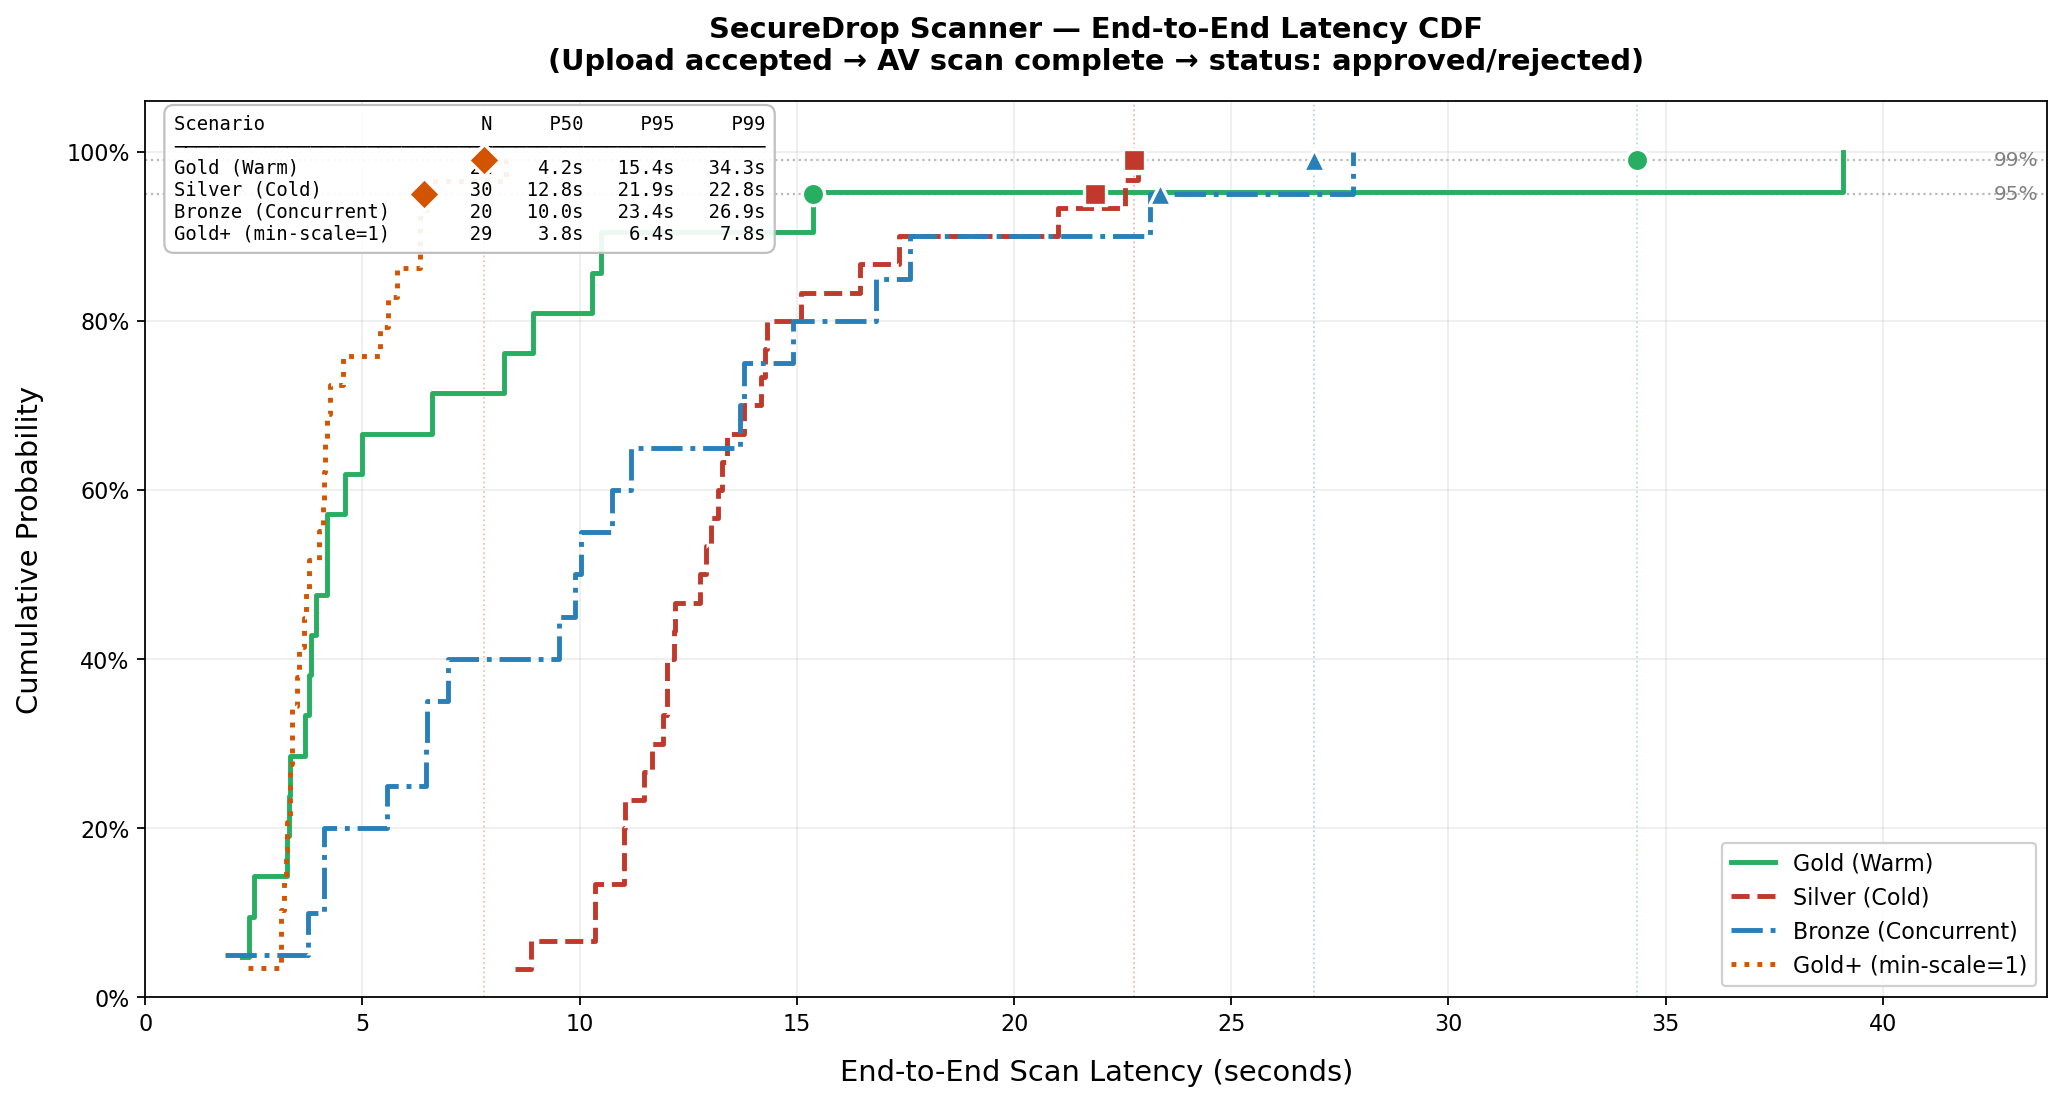
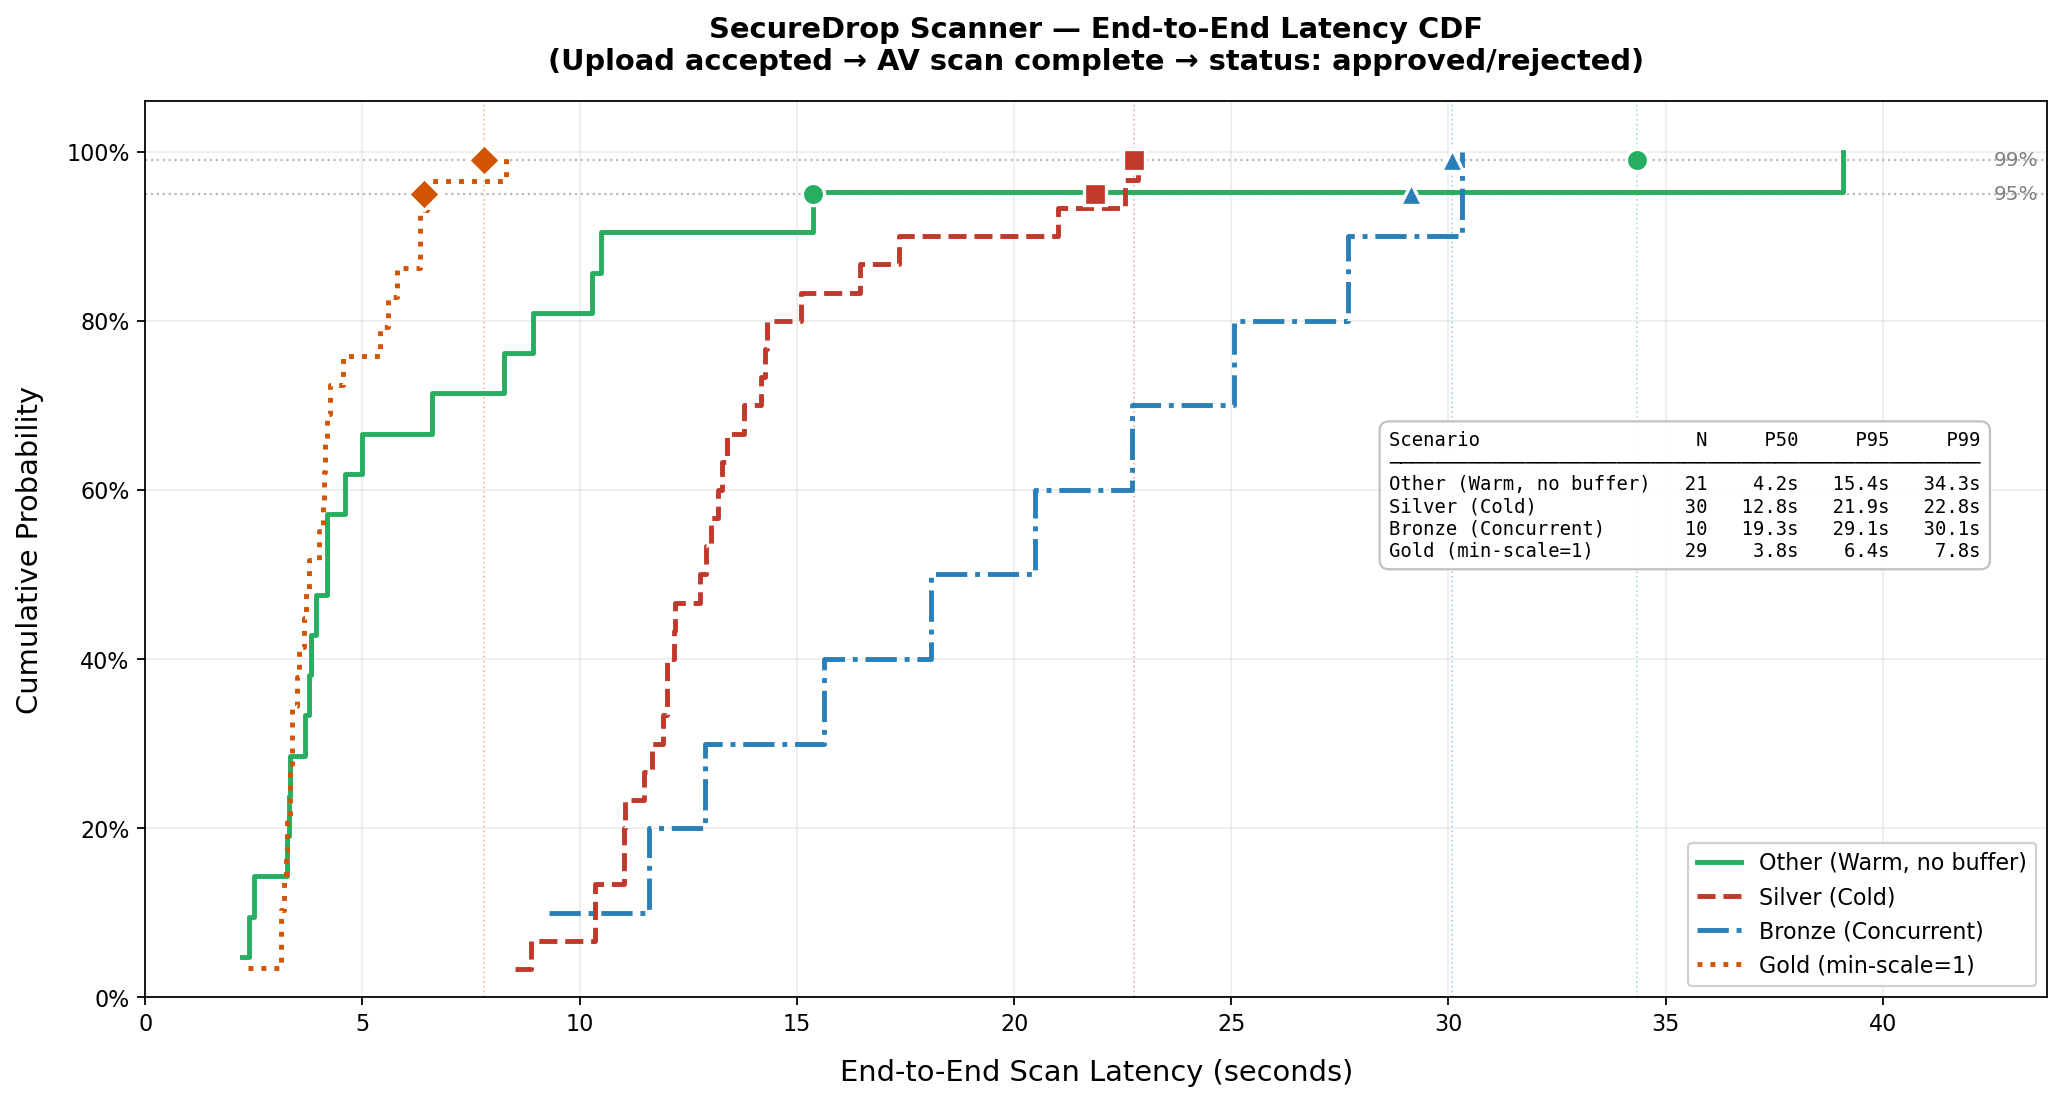
updated sla

diff --git a/sla-measurements/scripts/analyze_sla.py b/sla-measurements/scripts/analyze_sla.py
@@ -7,10 +7,10 @@ Usage:
 
 Example:
   python3 analyze_sla.py \
-    "Gold (Warm)":results/warm_final.csv \
+    "Gold (min-scale=1)":results/minscale1_clean.csv \
     "Silver (Cold)":results/cold_clean.csv \
     "Bronze (Concurrent)":results/concurrent_final.csv \
-    "Gold+ (min-scale=1)":results/minscale1_clean.csv \
+    "Other (Warm, no buffer)":results/warm_final.csv \
     --output results/sla_cdf_plot.png
 """
 
@@ -151,7 +151,7 @@ def plot_cdf(scenarios, output='sla_cdf_plot.png'):
         ax.text(x_max * 1.115, prob, lbl,
                 fontsize=9, color='gray', va='center', ha='right')
 
-    # ── Stats box (top-left) ─────────────────────────────────────────────────
+    # ── Stats box (center-right, clear of the Bronze rising edge) ───────────
     header = f"{'Scenario':<24} {'N':>3}  {'P50':>6}  {'P95':>6}  {'P99':>6}"
     sep    = '─' * len(header)
     rows   = [header, sep]
@@ -159,10 +159,11 @@ def plot_cdf(scenarios, output='sla_cdf_plot.png'):
         short = label[:23]
         rows.append(f"{short:<24} {n:>3}  {p50:>5.1f}s  {p95:>5.1f}s  {p99:>5.1f}s")
 
-    ax.text(0.015, 0.985, '\n'.join(rows),
+    ax.text(0.965, 0.56, '\n'.join(rows),
             transform=ax.transAxes,
             fontsize=8.5,
-            verticalalignment='top',
+            verticalalignment='center',
+            horizontalalignment='right',
             fontfamily='monospace',
             bbox=dict(boxstyle='round,pad=0.5',
                       facecolor='white', alpha=0.92,

diff --git a/sla-measurements/README.md b/sla-measurements/README.md
@@ -38,7 +38,7 @@ sla measurements/
 ├── results/
 │   ├── warm_final.csv                 # Scenario A results (21 samples)
 │   ├── cold_clean.csv                 # Scenario B results (30 samples)
-│   ├── concurrent_final.csv           # Scenario C results (20 samples)
+│   ├── concurrent_final.csv           # Scenario C results (10 samples)
 │   ├── minscale1_clean.csv            # Scenario D results (29 samples)
 │   └── sla_cdf_plot.png               # CDF plot (all 4 scenarios)
 ```
@@ -112,10 +112,13 @@ done
 
 ---
 
-## Scenario A — Warm execution (Gold SLA)
+## Scenario A — Warm execution, scale-to-zero (unstable / "Other")
 
-The scanner pod is already running before each upload.
-Measures steady-state latency without cold-start overhead.
+The scanner pod *may* already be running before each upload, or may have
+just scaled to zero — this scenario does **not** force a known pod state,
+it simply re-uploads at short intervals while `min-scale=0`. As shown
+below, this produces unpredictable, bimodal latency and is **not** assigned
+an SLA class.
 
 ```bash
 chmod +x scripts/measure_warm_sla_unique.sh
@@ -200,9 +203,17 @@ OUTPUT=results/concurrent_final.csv \
 > so the Knative scanner receives requests one at a time. The `containerConcurrency=5`
 > setting is never utilized — Node-RED is the bottleneck, not the scanner.
 
+> **Note on sample count:** Out of 30 upload attempts (3 batches × 10
+> concurrent uploads), only 10 were successfully matched to a status-change
+> event during log polling — the rest were dropped by a race condition in
+> the polling script when multiple status updates land in the same log
+> window. `results/concurrent_final.csv` reflects only the 10 confirmed
+> samples. Treat Bronze SLA numbers as **provisional** until the polling
+> script is fixed and the test re-run with the full 30 samples.
+
 ---
 
-## Scenario D — Always-warm (min-scale=1 comparison)
+## Scenario D — Always-warm (min-scale=1 → Gold SLA)
 
 Tests the alternative autoscaling strategy where a minimum of 1 pod is
 always running (no scale-to-zero). Supports section 6.6 of the design document.
@@ -233,12 +244,16 @@ microk8s kubectl annotate ksvc securedrop-scanner -n default \
 
 ## CDF Analysis
 
+The label passed before each `:csvfile` on the command line is the literal
+string used in the plot legend/stats box — **it must match the SLA class
+table below**, not the order the scenarios were measured in.
+
 ```bash
 python3 scripts/analyze_sla.py \
-  "Gold (Warm)":results/warm_final.csv \
+  "Gold (min-scale=1)":results/minscale1_clean.csv \
   "Silver (Cold)":results/cold_clean.csv \
   "Bronze (Concurrent)":results/concurrent_final.csv \
-  "Gold+ (min-scale=1)":results/minscale1_clean.csv \
+  "Other (Warm, no buffer)":results/warm_final.csv \
   --output results/sla_cdf_plot.png
 ```
 
@@ -248,34 +263,42 @@ python3 scripts/analyze_sla.py \
 
 | Scenario | N | Mean | P50 | P95 | P99 | Max |
 |---|---|---|---|---|---|---|
-| Gold (Warm, scale-to-zero) | 21 | 7.1s | 4.2s | 15.4s | 34.3s | 39.1s |
+| Other (Warm, scale-to-zero, unstable) | 21 | 7.1s | 4.2s | 15.4s | 34.3s | 39.1s |
 | Silver (Cold start) | 30 | 13.5s | 12.8s | 21.9s | 22.8s | 22.8s |
-| Bronze (10× concurrent) | 20 | 10.9s | 10.0s | 23.4s | 26.9s | 27.8s |
-| Gold+ (min-scale=1) | 29 | 4.3s | 3.8s | 6.4s | 7.8s | 8.3s |
+| Bronze (10× concurrent)¹ | 10 | — | 19.3s | 29.1s | 30.1s | — |
+| Gold (min-scale=1) | 29 | 4.3s | 3.8s | 6.4s | 7.8s | 8.3s |
+
+¹ Provisional — see sample-count note in Scenario C above. Mean/Max not
+yet recomputed for the reduced N=10 set; re-run before final submission.
 
 ### SLA Class definitions
 
 | Class | Scenario | Condition | P99 target |
 |---|---|---|---|
-| **Gold+** | min-scale=1 (always warm) | ≥1 pod always running | ≤ 8s |
+| **Gold** | min-scale=1 (always warm) | ≥1 pod always running | ≤ 8s |
 | **Silver** | Cold start (scale-to-zero) | Pod starts from zero | ≤ 23s |
-| **Bronze** | 10× concurrent burst | 10 parallel uploads | ≤ 27s |
+| **Bronze** | 10× concurrent burst | 10 parallel uploads | ≤ 30.5s¹ |
+| **Other** (unclassified) | Warm, scale-to-zero, no buffer | min-scale=0, short interval between runs | not eligible — see Finding 1 |
+
+¹ Updated from ≤27s after the Bronze re-measurement; confirm once the
+full 30-sample run replaces the current N=10 provisional set.
 
 ### Key findings
 
-**1. scale-to-zero without min-scale=1 is unpredictable.**
-The "Gold (Warm)" scenario has P99=34s — worse than Cold (P99=23s).
+**1. scale-to-zero without min-scale=1 is unpredictable — not a Gold strategy.**
+The "Other (Warm)" scenario has P99=34.3s — worse than Cold (P99=22.8s).
 Its bimodal CDF reveals that scale-to-zero occasionally fires between
-sequential test runs, causing hidden cold starts. The high stdev (8.1s)
-confirms this instability.
+sequential test runs, causing hidden cold starts. The high stdev (~8s)
+confirms this instability. This scenario is deliberately excluded from
+the SLA class table.
 
-**2. min-scale=1 is the only reliable "Gold" strategy.**
+**2. min-scale=1 is the only reliable Gold strategy.**
 P99=7.8s with stdev=1.3s. Consistent, predictable, no cold-start variance.
 Trade-off: one pod always running = higher resource cost.
 
 **3. Concurrent bottleneck is Node-RED, not the scanner.**
 Node-RED processes RabbitMQ messages serially (prefetch=1). Under 10
-concurrent uploads, the 10th file waits ~9 × scan_time in the queue.
+concurrent uploads, later files wait several × scan_time in the queue.
 Only 1 Knative pod is ever needed — the autoscaler never triggers
 scale-up because requests arrive sequentially at the scanner.
 
